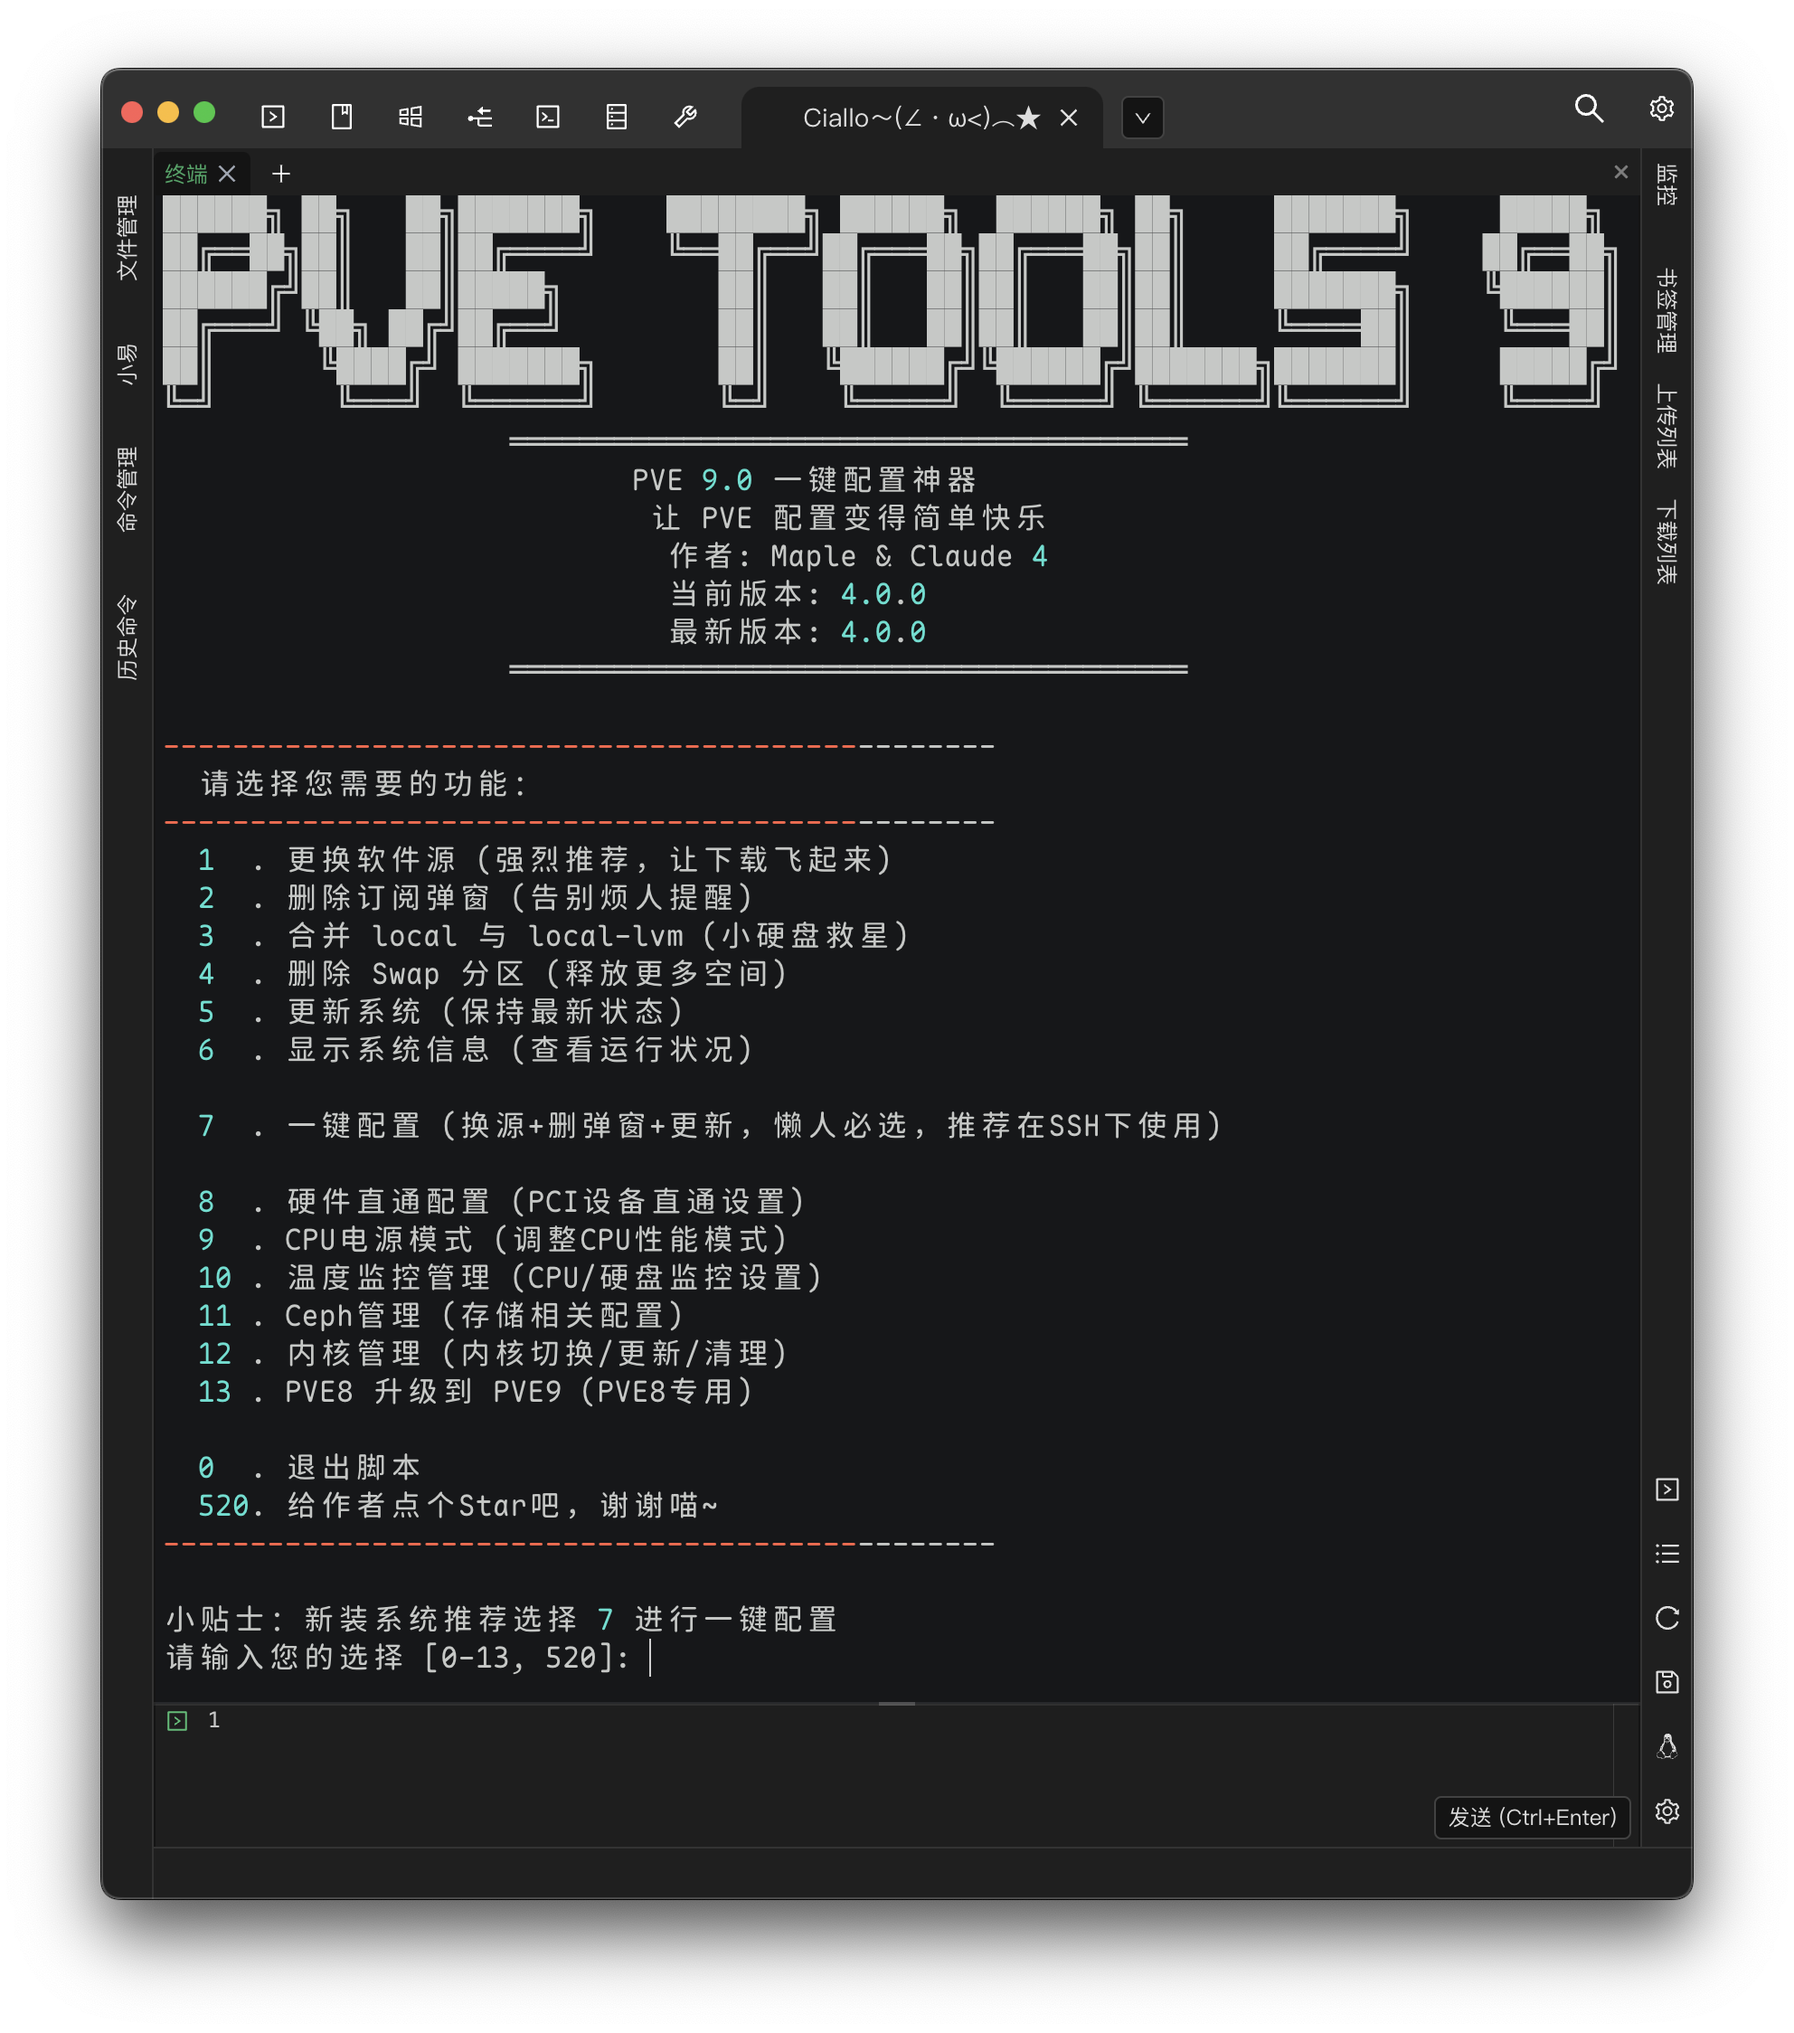
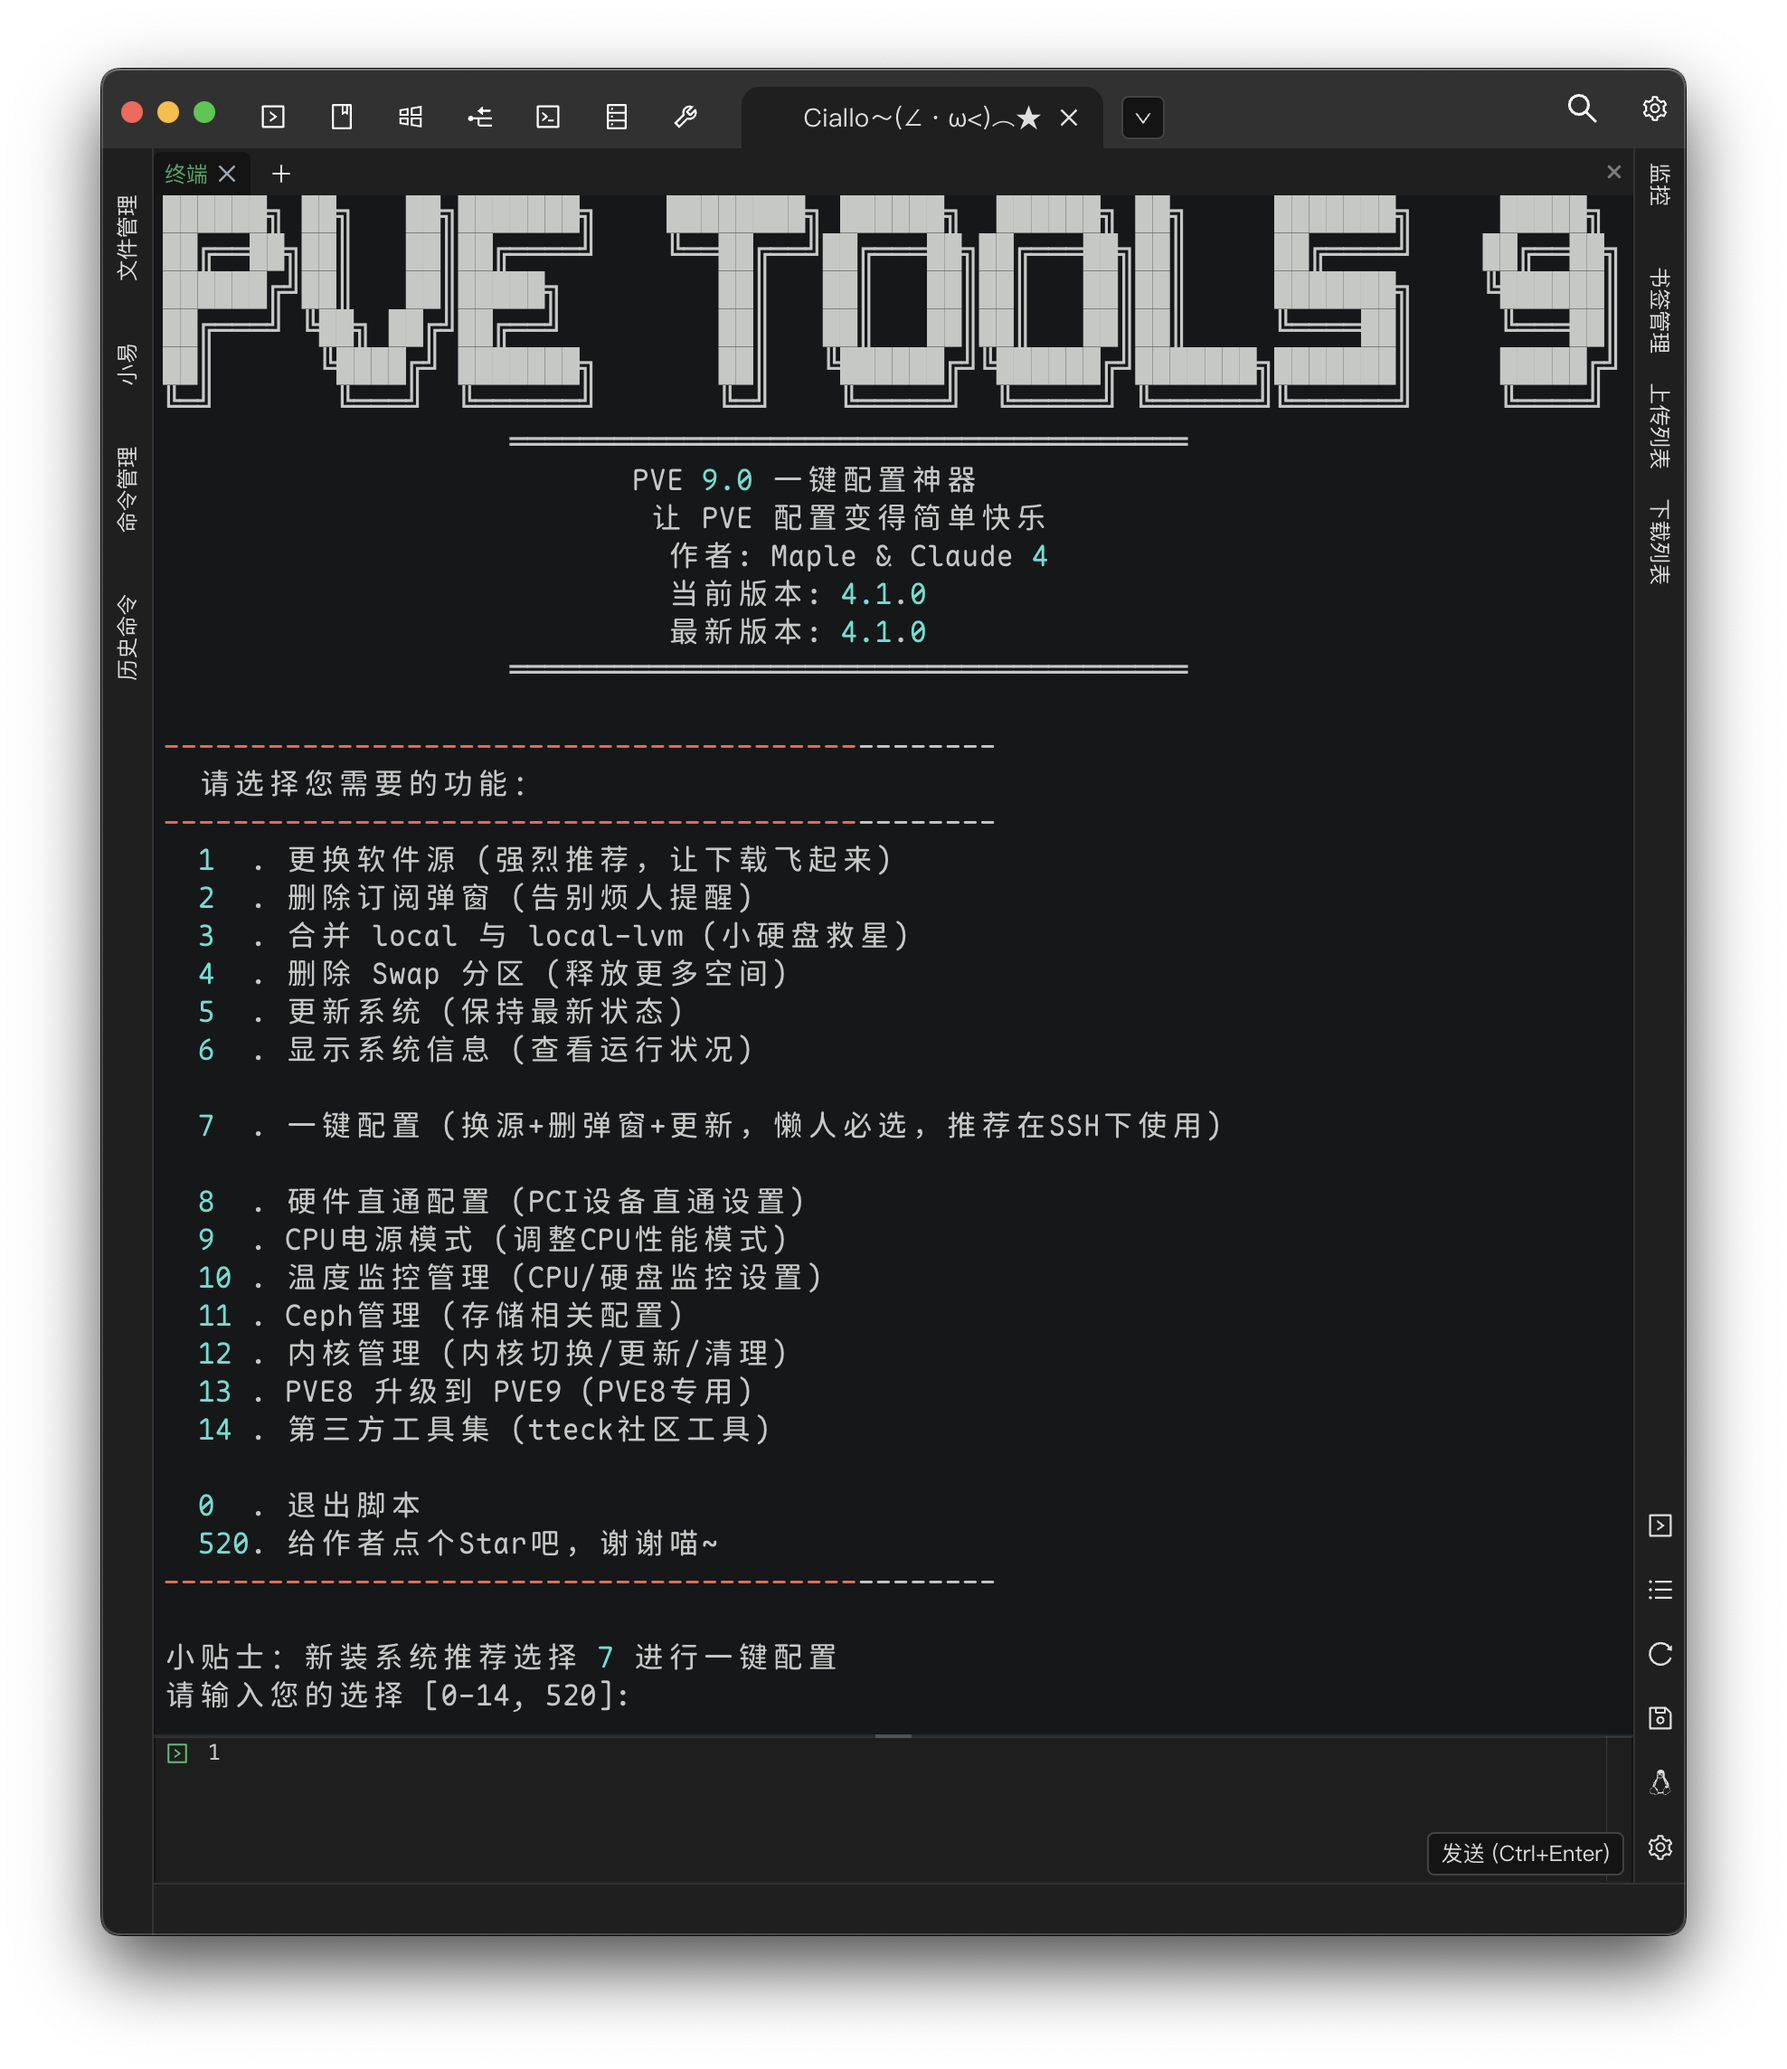
docs: 展示新功能，更换头图

diff --git a/README.md b/README.md
@@ -45,9 +45,20 @@ bash <(curl -sSL https://ghfast.top/github.com/Mapleawaa/PVE-Tools-9/blob/main/P
 bash <(curl -sSL https://github.com/Mapleawaa/PVE-Tools-9/blob/main/PVE-Tools.sh)
 ```
 
-#### PVE7~8升级PVE9快捷工具
-新项目!! 快来看! 快速升级PVE9
-![PVE 8 Upgrade Helper](https://img.shields.io/badge/PVE%208%20Upgrade%20Helper-Quick%20Upgrade%20Tool-blue?style=for-the-badge&logo=proxmox&logoColor=white)
+---
+
+<div align="center">
+<strong> [新功能!] 自带小工具软件 </strong> 
+
+<img src="./images/little-tools.png"> </img>
+**工具来源**
+**作者**: tteck
+**项目地址**: https://github.com/tteck/Proxmox
+**许可证**: MIT License
+##### 感谢 **tteck** 为 Proxmox 社区贡献的优秀工具！
+*如需了解更多工具详情，请访问原项目：*
+https://github.com/tteck/Proxmox
+</div>
 
 ---
 
